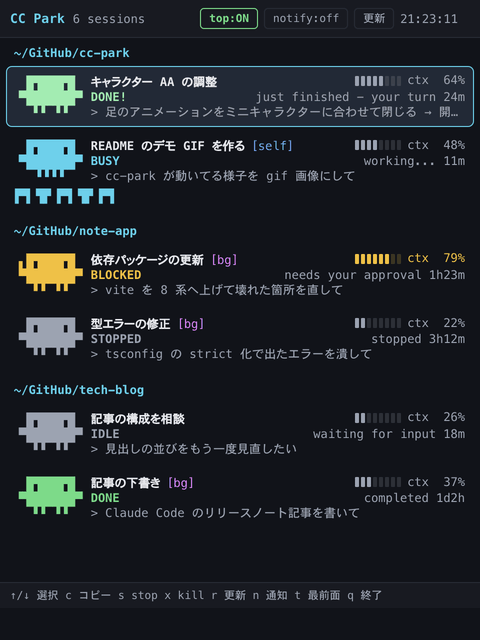
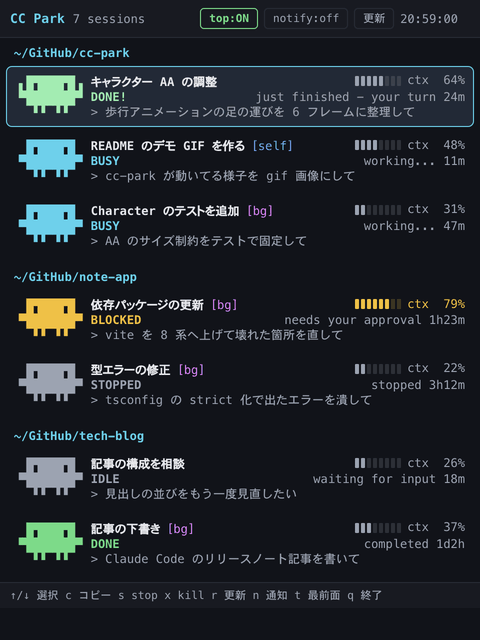
Revert "BUSY のアニメーションをミニキャラクターに合わせて足の開閉にする (#14)" (#15)
This reverts commit b1ff90fa71220fe6e419d923ba52b8784e689853.

diff --git a/src/shared/characters.ts b/src/shared/characters.ts
@@ -17,18 +17,21 @@ const HEAD = '▐▛███▛█';
 /** 身体の行（桁 0-8）。全フレーム共通。 */
 export const BODY = '▝▜██████▀';
 
-/** 足の行（桁 0-8）。起動バナーと同じ形。静止する状態と、`working` の開いたフレームで使う。 */
+/** 足の行（桁 0-8）。起動バナーと同じ形で、状態によらず静止させる。 */
 export const LEGS = '  ▝▝ ▝▝  ';
 
 /*
- * 閉じたときの足。足は桁 2 / 3（右足）と桁 5 / 6（左足）に 2 本ずつある。
+ * 歩くときの足。足は桁 2 / 3（右足）と桁 5 / 6（左足）に 2 本ずつある。
  * 左右はキャラクター自身から見た向きで、手と同じく正面を向いているため入れ替わる。
  *
- * サブエージェントのミニキャラクターと同じく、左右の足を同時に開閉させる。
- * 4 本まとめて半セルぶん中央へ寄せ、開くときは標準（`LEGS`）へ戻す。
- * 半セルより細かくは動かせないので、開いた形を標準そのものにして振り幅を抑えている。
+ * 踏み出す向きは常に左手側（桁 8 の方向）。半セルぶん右へずらすので、
+ * 「開く」は外側の足が隣の桁へ出て `▘` になり、
+ * 「閉じる」は内側の足が寄ってペアが 1 つの `▀` に繋がる。
  */
-const LEGS_CLOSED = '   ▘▘▘▘  ';
+const LEGS_RIGHT_OPEN = '  ▝ ▘▝▝  ';
+const LEGS_RIGHT_CLOSED = '   ▀ ▝▝  ';
+const LEGS_LEFT_OPEN = '  ▝▝ ▝ ▘ ';
+const LEGS_LEFT_CLOSED = '  ▝▝  ▀  ';
 
 /** 未知の状態は足を不揃いにする。 */
 const UNEVEN_LEGS = '  ▘▝ ▝▘  ';
@@ -96,8 +99,15 @@ export const CHARACTERS: Readonly<Record<CharacterState, CharacterAppearance>> =
     priority: 1,
   },
   working: {
-    // 手は下ろしたまま、ミニキャラクターと同じく左右の足を閉じて開く（開いた形は標準）
-    frames: [frame('down', LEGS_CLOSED), frame('down')],
+    // 手は下ろしたまま、右足 → 左足 の順に左手側へ閉じて開き、毎回標準へ戻って歩く
+    frames: [
+      frame('down', LEGS_RIGHT_CLOSED),
+      frame('down', LEGS_RIGHT_OPEN),
+      frame('down'),
+      frame('down', LEGS_LEFT_CLOSED),
+      frame('down', LEGS_LEFT_OPEN),
+      frame('down'),
+    ],
     color: 'cyan',
     label: 'BUSY',
     description: 'working...',
@@ -137,7 +147,7 @@ export const CHARACTERS: Readonly<Record<CharacterState, CharacterAppearance>> =
  * ミニキャラクター。実行中のサブエージェント 1 体を表す。
  *
  * 親の AA の下へ 1 行だけ並べるので、1 行 x 2 桁に収める。
- * 上半分が身体、下半分が足で、親と同じく左右の足を同時に開閉させる。
+ * 上半分が身体、下半分が足で、親と同じ「開く / 閉じる」で歩かせる。
  * 動く部位を足に揃えることで、動いている = 作業中、という役割分担を崩さない。
  */
 

diff --git a/src/components/Character/Character.test.tsx b/src/components/Character/Character.test.tsx
@@ -223,31 +223,6 @@ describe('getFrame', () => {
   );
 
   /*
-   * `working` はサブエージェントのミニキャラクターと同じ「閉じる → 開く」で動かす。
-   * 周期がずれると親子で動きが揃わなくなるので、フレーム数を揃えたままにする。
-   */
-  it('working はミニキャラクターと同じ周期で動く', () => {
-    const cycle = CHARACTERS.working.frames.length;
-    expect(cycle).toBe(2);
-    expect(getMiniFrame(cycle)).toBe(getMiniFrame(0));
-    expect(getMiniFrame(cycle - 1)).not.toBe(getMiniFrame(0));
-  });
-
-  /* `working` で動くのは足だけ。手が動くと `BLOCKED` / `DONE!` と見分けがつかなくなる。 */
-  it('working は足だけが動く', () => {
-    const rows = CHARACTERS.working.frames.map((frame) => frame.split('\n'));
-    const [first, second] = rows;
-
-    // 手（1 行目の両端）は下ろしたまま
-    for (const [head] of rows) {
-      expect(head?.at(0)).toBe(' ');
-      expect(head?.at(-1)).toBe(' ');
-    }
-    // 足（3 行目）だけがフレームごとに変わる
-    expect(first?.[2]).not.toBe(second?.[2]);
-  });
-
-  /*
    * 足が 1 本も無いと「キャラクターが欠けている」ように見えてしまう。
    * 静止させる状態でも足は残す約束なので、全状態・全フレームで固定する。
    */
